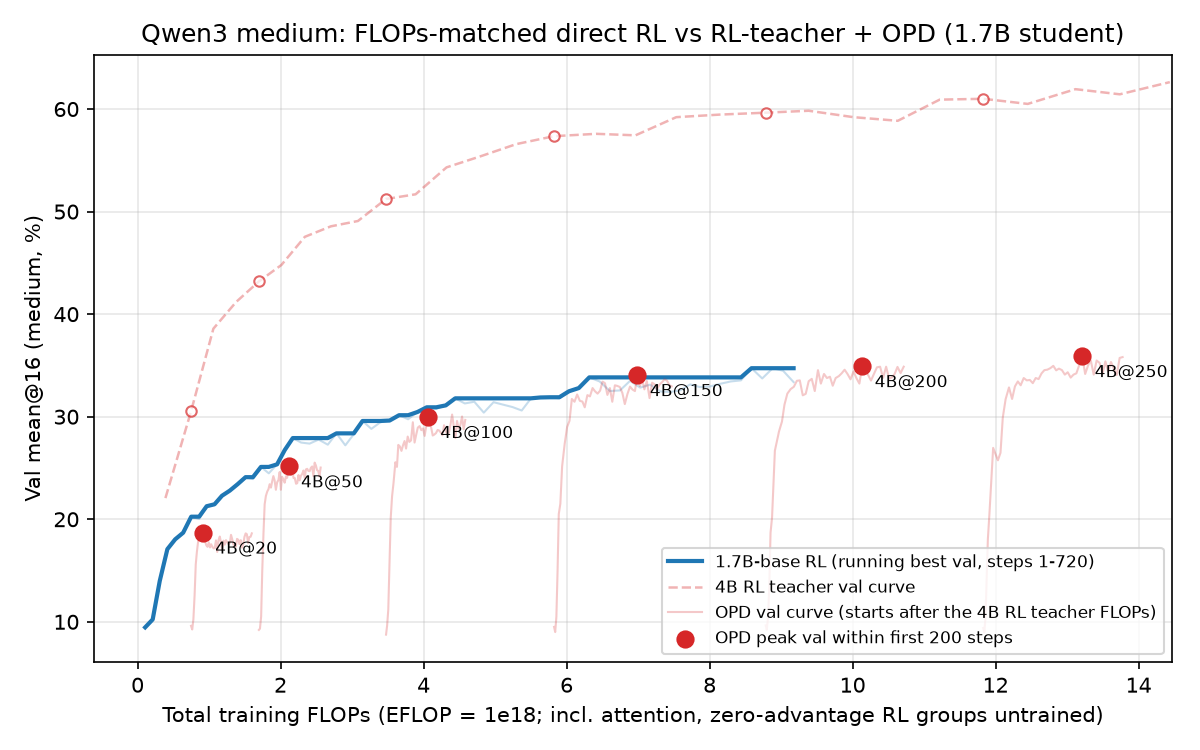
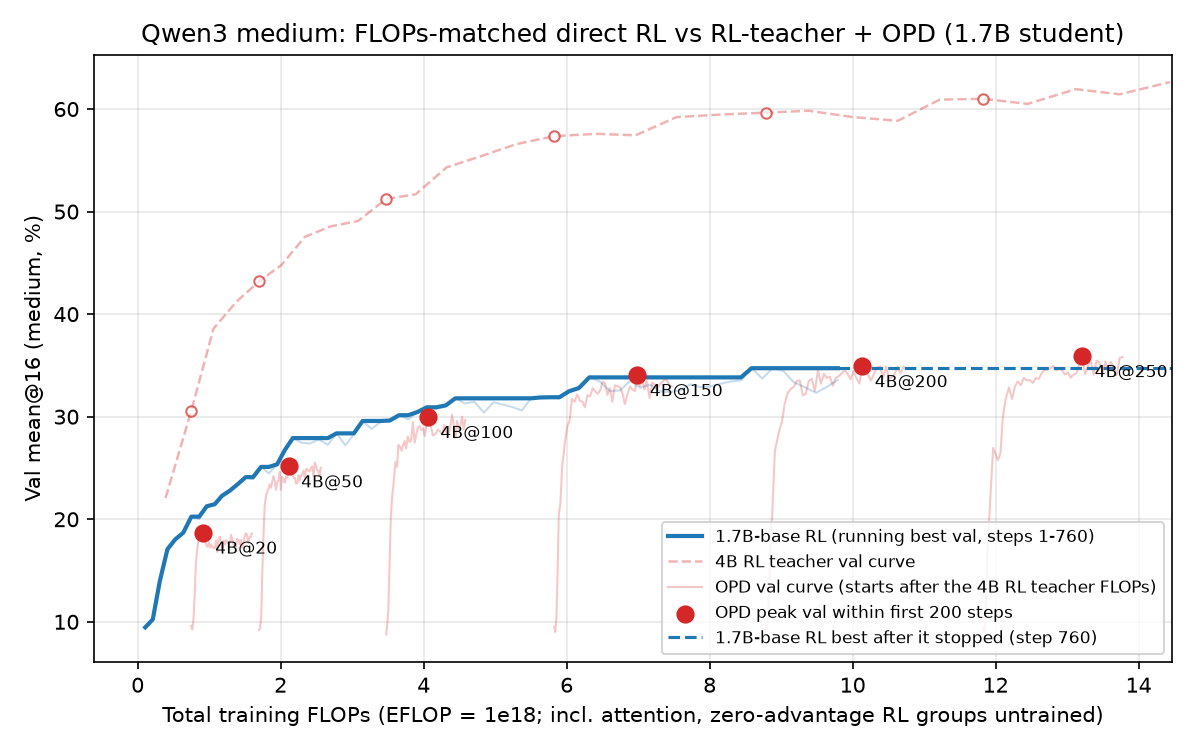
FLOP-matched plot: final 1.7B medium RL curve (early-stopped @760), dashed plateau

Changed region(s): [[0.555, 0.6747, 0.9558, 0.8587], [0.6475, 0.4907, 0.7092, 0.5213]]

diff --git a/rl-distill-scripts/analysis/qwen3_flops_matched_opd_vs_rl.py b/rl-distill-scripts/analysis/qwen3_flops_matched_opd_vs_rl.py
@@ -192,6 +192,9 @@ def plot(rl_curve, teacher_curve, points, out_png, rl_last_step):
         ax.annotate(f"4B@{pt['k']}", (pt["x"] / 1e18, 100 * pt["y"]), textcoords="offset points", xytext=(6, -10), fontsize=8)
     ax.plot([], [], color="tab:red", alpha=0.25, lw=1, label="OPD val curve (starts after the 4B RL teacher FLOPs)")
     ax.scatter([], [], color="tab:red", s=60, label=f"OPD peak val within first {OPD_STEPS} steps")
+    if x_max > x[-1]:  # the RL run has stopped: its best is final, so carry it to the right edge
+        ax.plot([x[-1] / 1e18, x_max / 1e18], [100 * best[-1]] * 2, color="tab:blue", lw=1.5, ls="--",
+                label=f"1.7B-base RL best after it stopped (step {rl_last_step})")
     ax.set_xlim(right=x_max / 1e18)
     ax.set_xlabel("Total training FLOPs (EFLOP = 1e18; incl. attention, zero-advantage RL groups untrained)")
     ax.set_ylabel("Val mean@16 (medium, %)")

diff --git a/rl-distill-scripts/PROGRESS_LOG.md b/rl-distill-scripts/PROGRESS_LOG.md
@@ -57,6 +57,9 @@ prompts, validation; see the FLOP notes in the 10-23 discussion).
   | 1.7B RL running best at same EFLOP | 20.2 | 26.8 | 30.9 | 33.8 | 33.8 | 33.8 |
   2026-10-25 01Z refresh (1.7B RL continuation at step 720 = 9.2 EFLOP): RL new best 34.7 @680 (8.6 EFLOP); 4B@200 (34.9, 10.1
   EFLOP) and 4B@250 (35.9, 13.2 EFLOP) are now past the end of the RL curve -- compare again when the run reaches 1000.
+  2026-10-25 03:23Z: 1.7B medium continuation EARLY-STOPPED @760 (5 misses vs best **34.7 @680**, +0.9 over the first run; best_hf =
+  step 680; first-run step-520 copy in archive_first_run/). Final RL curve = 9.8 EFLOP, plateau drawn dashed past it. Final matched
+  comparison: RL leads by 0.9-1.7 below ~6 EFLOP, tie at 4B@150 (34.0 vs 33.8), OPD +0.2 (4B@200) / +1.2 (4B@250) over the RL plateau.
   1.7B RL best 33.8 @520 = 6.3 EFLOP. Below ~6 EFLOP direct RL is ahead; above it, teacher+OPD passes the RL plateau (+0.2 to +2.1).
 - 2026-10-24 20:30Z: 1.7B medium RL **continued 600 -> 1000** (user request): it stopped on the 600-step cap, not early stopping
   (2 misses carried; val slope still ~+1 pt/100 steps over 300-600, 75% mixed groups), so the plot's flat RL line past 6.3 EFLOP was an
